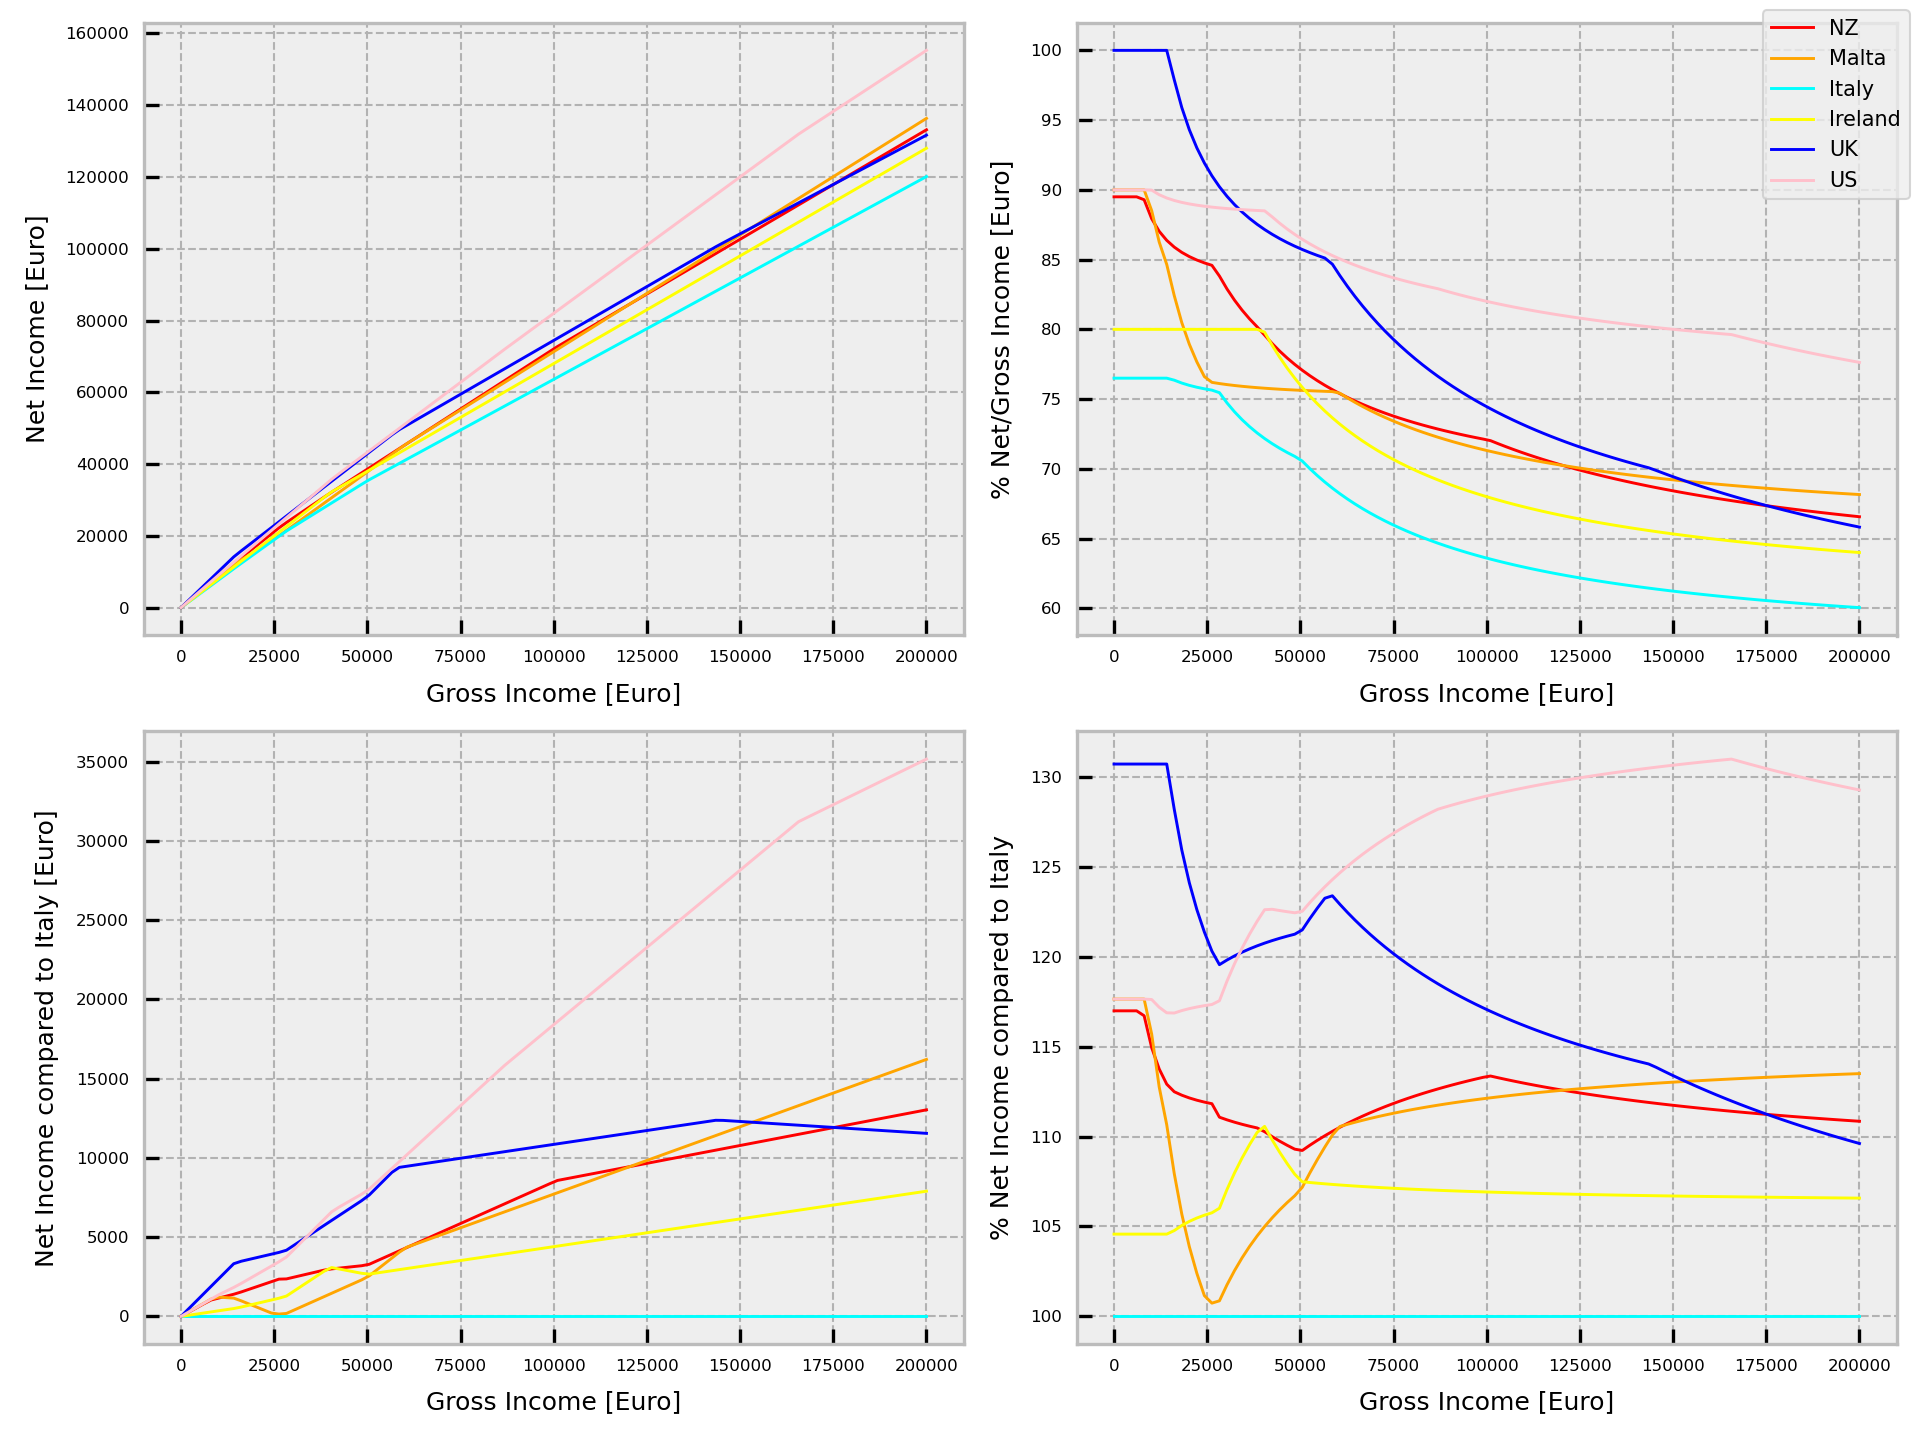
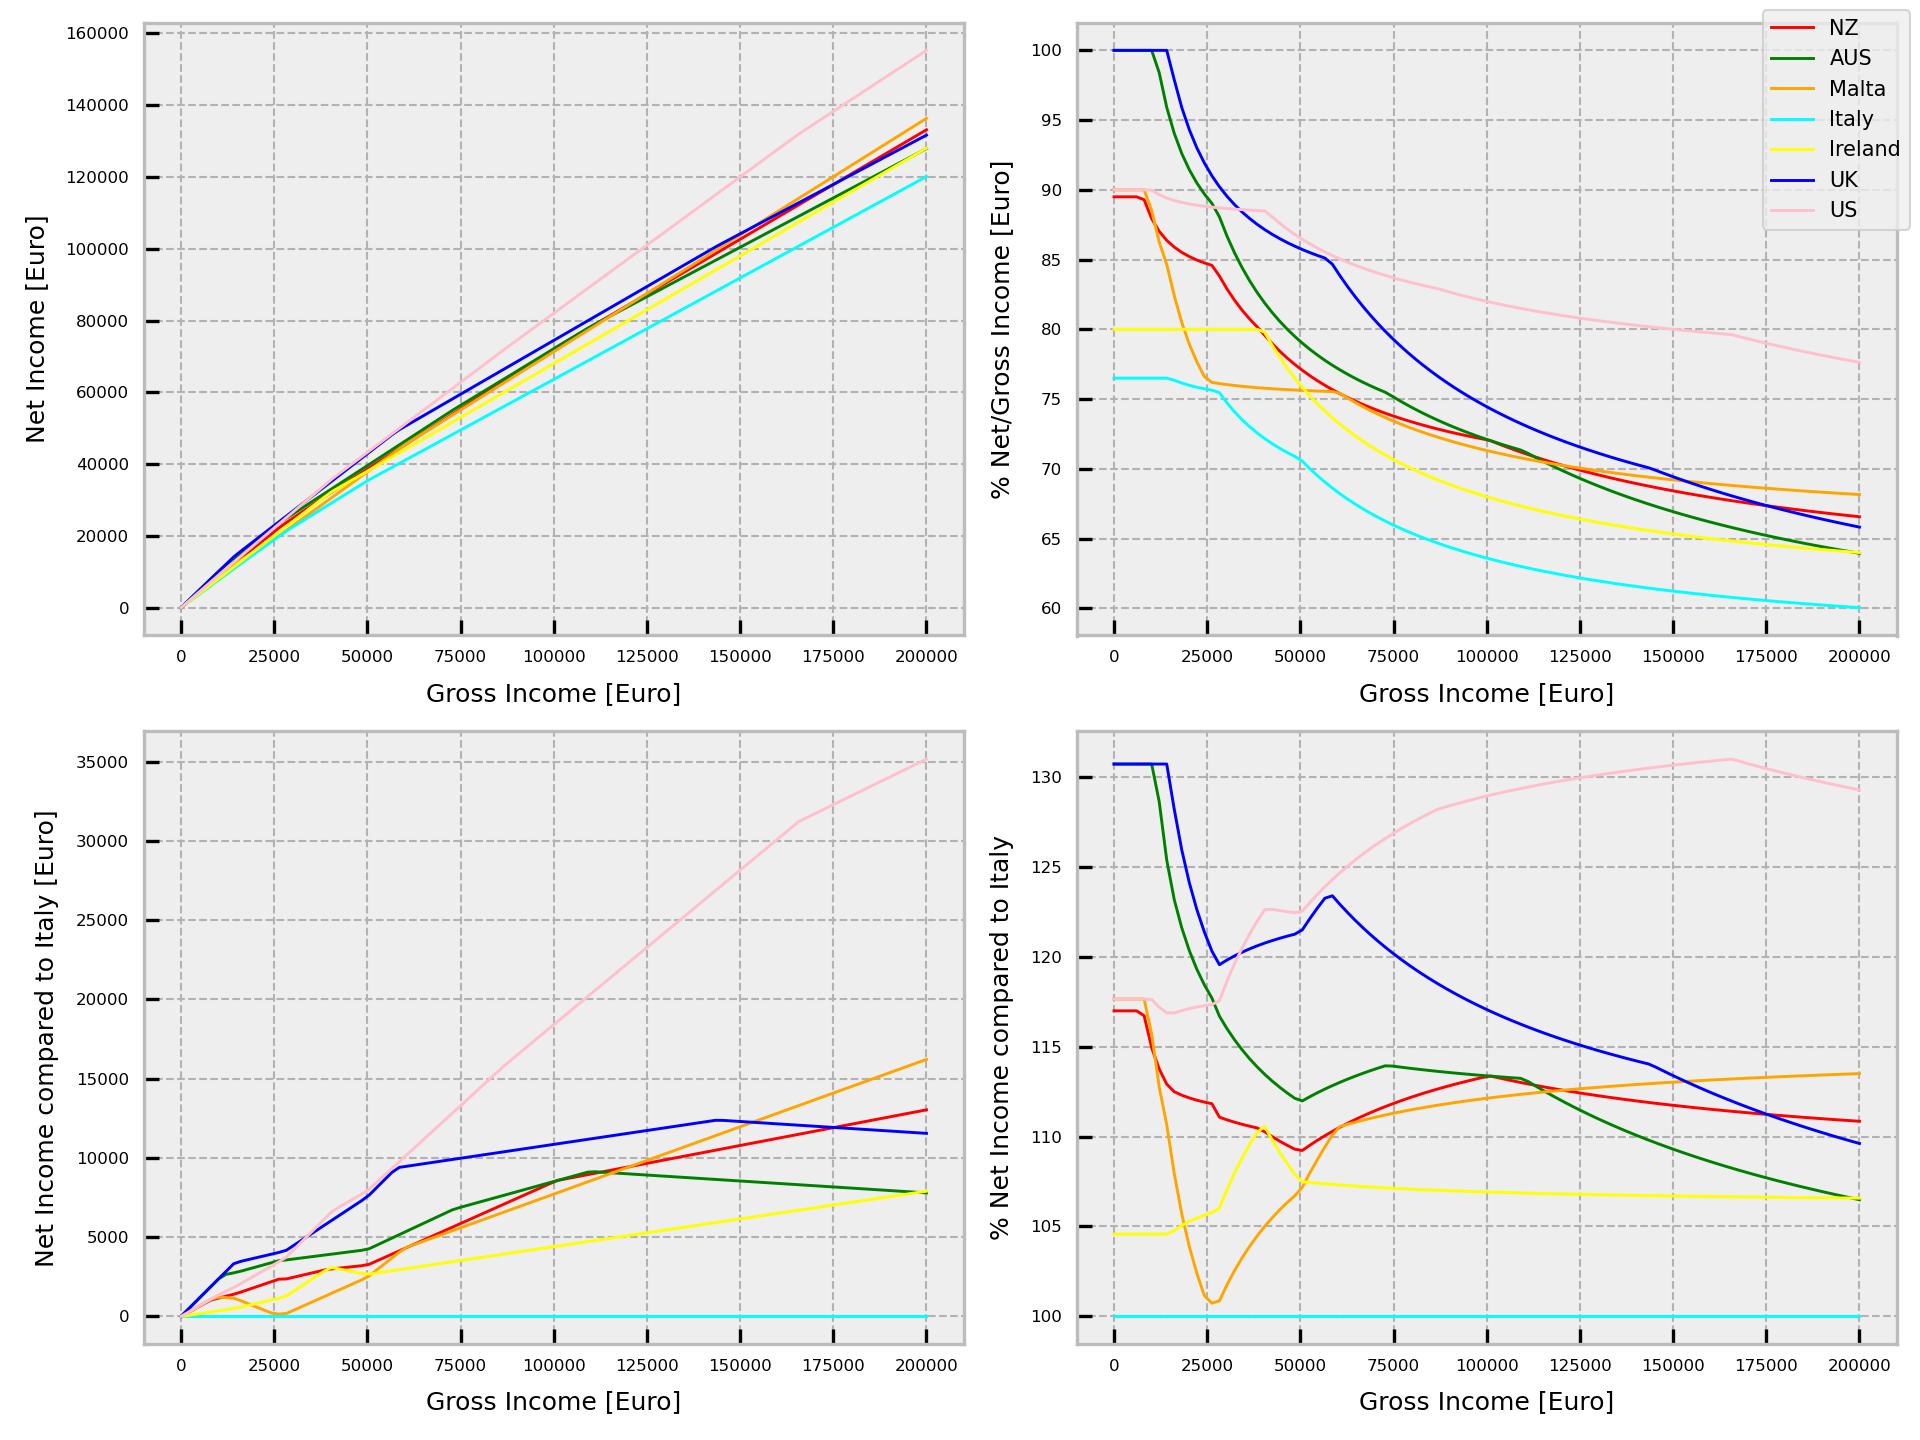
Added AUS

Changed region(s): [[0.9062, 0.0312, 1.0, 0.1562]]

diff --git a/taxes.py b/taxes.py
@@ -59,6 +59,8 @@ class Tax:
 tax_data = [
     {"name": "NZ", "color": "red", "rates": [10.5, 17.5, 30, 33, 39],
      "incomes": [14000, 48000, 70000, 180000], "currency_factor": 0.56},
+    {"name": "AUS", "color": "green", "rates": [0, 19, 32.5, 37, 45],
+     "incomes": [18200, 45000, 120000, 180000], "currency_factor": 0.61},
     {"name": "Malta", "color": "orange", "rates": [0, 15, 25, 35], "incomes": [9100, 14500, 60000],
      "currency_factor": 1,
      "capping": {"tax": 10, "yearly_cap": 2500}},
